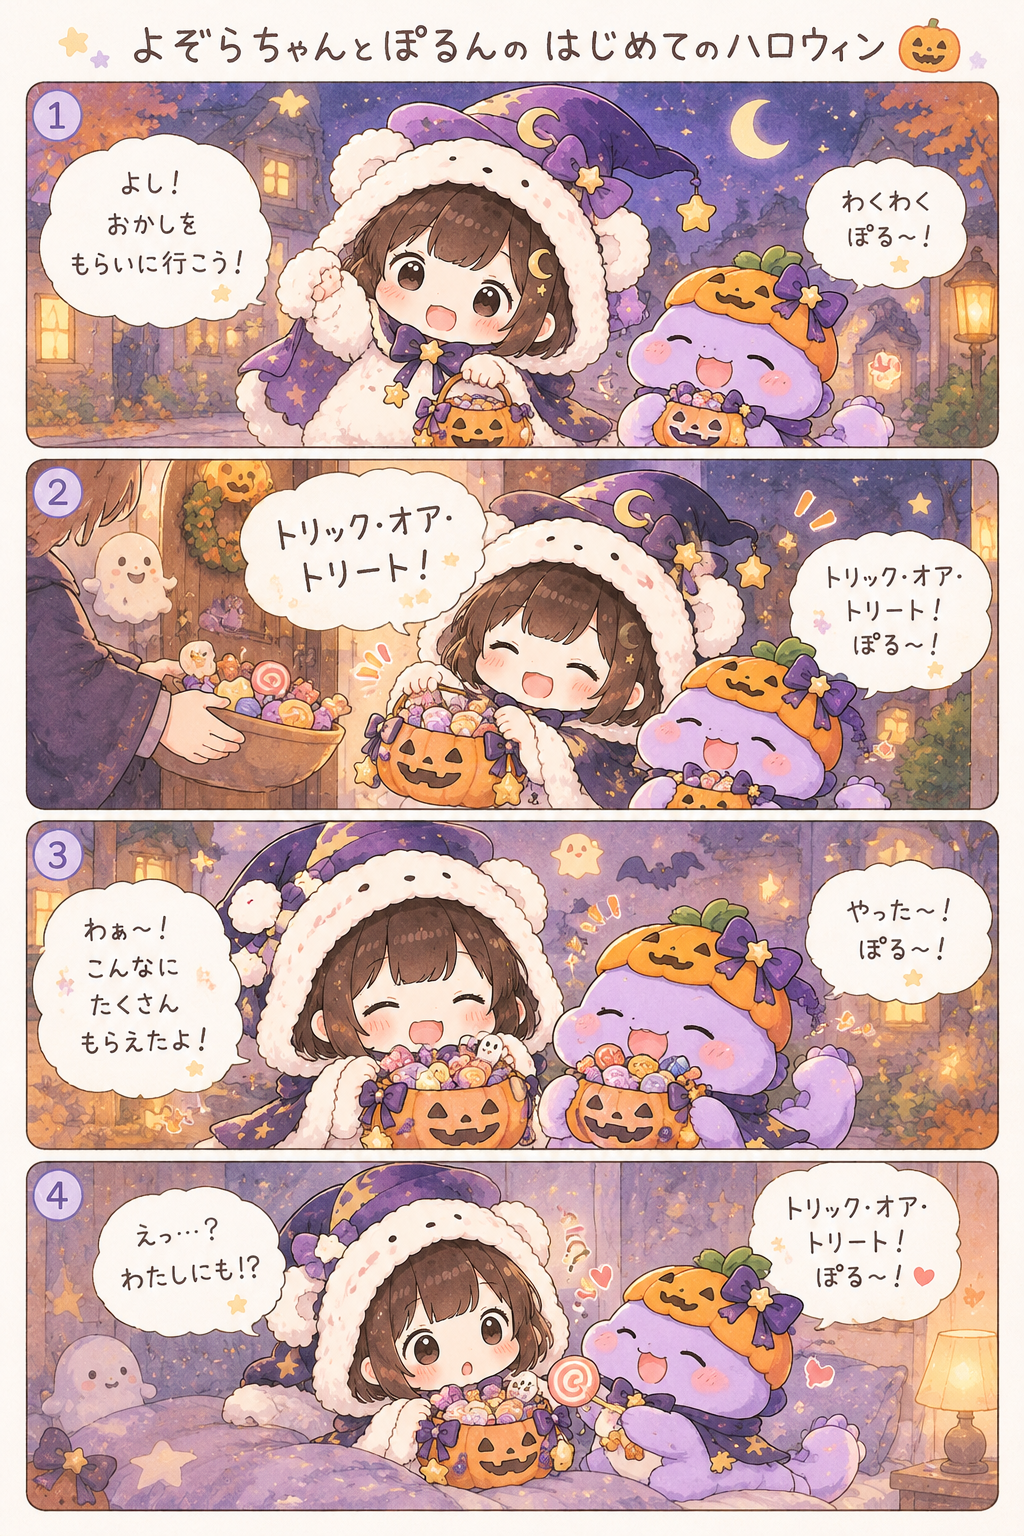
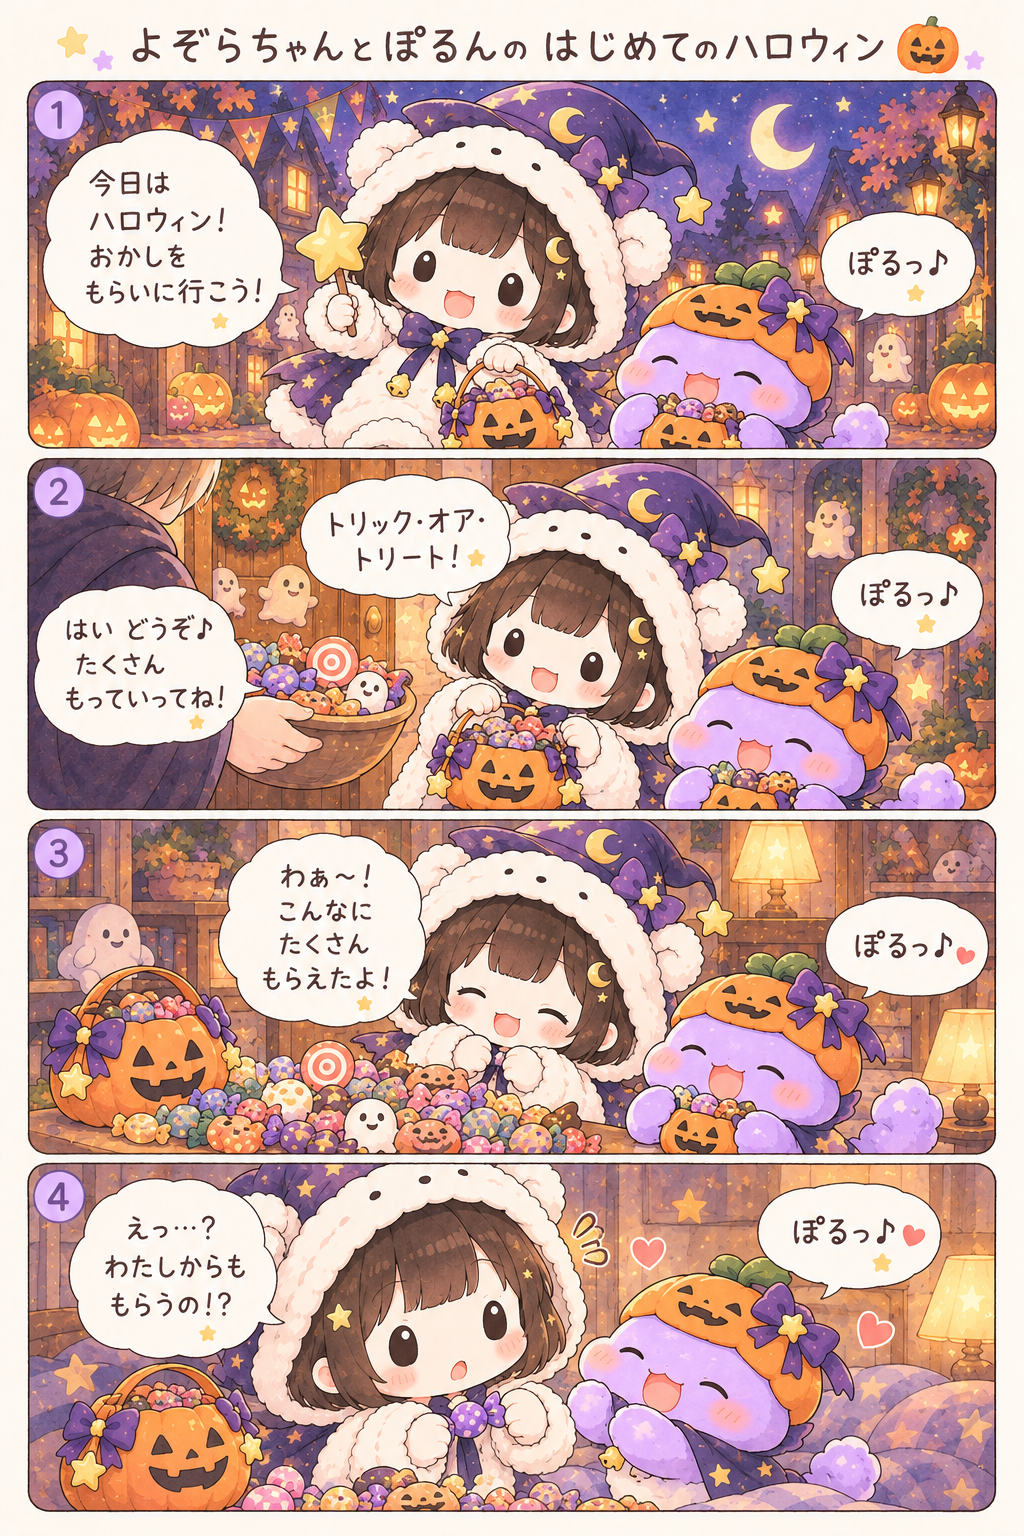
Update Halloween comic with official round eyes and revised dialogue

diff --git a/halloween/index.html b/halloween/index.html
@@ -74,16 +74,16 @@
     <div class="wrap">
       <div class="section-head"><p class="hw-eyebrow">LITTLE HALLOWEEN COMIC</p><h2 id="comic-title">NEW！ ハロウィン4コマ漫画</h2><p>よぞらちゃんとぽるんの はじめてのハロウィン。<br>お菓子を集めたふたりに、最後は小さなサプライズ。</p></div>
       <figure class="hw-comic-figure">
-        <img src="./assets/halloween-comic.png" alt="『よぞらちゃんとぽるんの はじめてのハロウィン』の縦長4コマ漫画。魔法使い姿のふたりがお菓子を集め、最後にぽるんがよぞらちゃんへキャンディーを差し出します。" width="1024" height="1536" loading="lazy" decoding="async">
+        <img src="./assets/halloween-comic.png?v=20261025-round-eyes" alt="『よぞらちゃんとぽるんの はじめてのハロウィン』の縦長4コマ漫画。魔法使い姿のふたりがお菓子を集め、最後にぽるんがよぞらちゃんのお菓子を欲しがり、よぞらちゃんが驚きます。" width="1024" height="1536" loading="lazy" decoding="async">
         <figcaption>よぞらちゃんとぽるんの はじめてのハロウィン</figcaption>
       </figure>
       <details class="hw-comic-transcript">
         <summary>4コマの台詞を読む</summary>
         <ol>
-          <li>よぞらちゃん「よし！ おかしをもらいに行こう！」ぽるん「わくわく ぽる～！」</li>
-          <li>よぞらちゃん「トリック・オア・トリート！」ぽるん「トリック・オア・トリート！ ぽる～！」</li>
-          <li>よぞらちゃん「わぁ～！ こんなにたくさんもらえたよ！」ぽるん「やった～！ ぽる～！」</li>
-          <li>ぽるんがよぞらちゃんへキャンディーを差し出します。よぞらちゃん「えっ…？ わたしにも!?」ぽるん「トリック・オア・トリート！ ぽる～！ ♥」</li>
+          <li>よぞらちゃん「今日はハロウィン！ おかしをもらいに行こう！」ぽるん「ぽるっ♪」</li>
+          <li>よぞらちゃん「トリック・オア・トリート！」お菓子をくれる人「はい どうぞ♪ たくさんもっていってね！」ぽるん「ぽるっ♪」</li>
+          <li>よぞらちゃん「わぁ～！ こんなにたくさんもらえたよ！」ぽるん「ぽるっ♪ ♥」</li>
+          <li>ぽるんがよぞらちゃんのお菓子を欲しがります。よぞらちゃん「えっ…？ わたしからももらうの!?」ぽるん「ぽるっ♪ ♥」</li>
         </ol>
       </details>
     </div>
